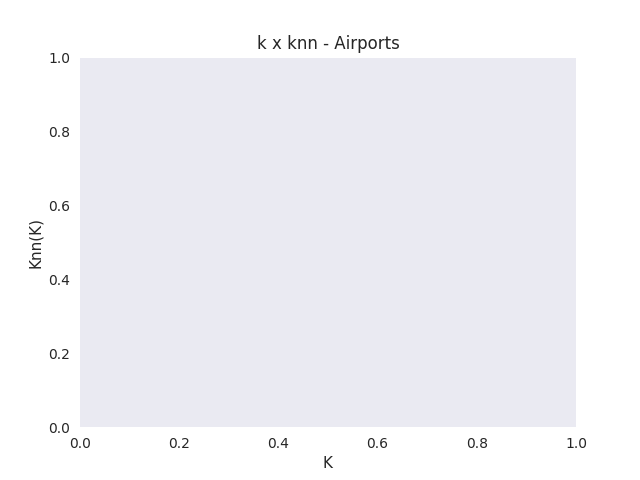
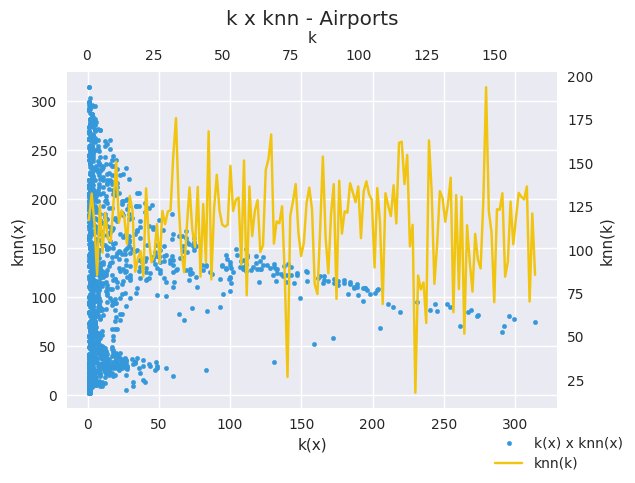
Update k x knn correlation, plot them accordingly

diff --git a/assignment2/assignment2.py b/assignment2/assignment2.py
@@ -74,31 +74,47 @@ def k_x_knn(graphs):
     for name, graph in graphs.items():
         print(name)
 
-        knn_degrees = nx.average_degree_connectivity(graph)
-        knn_vertex = nx.average_neighbor_degree(graph)
+        degrees = list(graph.degree().values())
+        knn_degrees = list((nx.average_degree_connectivity(graph)).values())
+        knn_vertex = list((nx.average_neighbor_degree(graph)).values())
+        k = range(1, len(knn_degrees) + 1)
 
-        knn_k = list(knn_degrees.values())
-        knn_v = list(knn_vertex.values())
+        # prepare plotting area
+        sns.set()
+        fig = pp.figure()
+        ax1 = fig.add_subplot(111, label="k(x) x knn(x)")
+        ax2 = fig.add_subplot(111, label="knn(k)", frame_on=False)
+
+        # knn(x) - scatter
+        plot1 = ax1.scatter(degrees, knn_vertex, s = 10, color=colors[i], marker='o', label="k(x) x knn(x)")
+        ax1.set_xlabel("k(x)")
+        ax1.set_ylabel("knn(x)")
+        ax1.tick_params(axis='x')
+        ax1.tick_params(axis='y')
+        # knn(k) - line
+        plot2, = ax2.plot(k, knn_degrees, c=colors[i+1], label="knn(k)")
+        ax2.xaxis.tick_top()
+        ax2.yaxis.tick_right()
+        ax2.set_xlabel("k")
+        ax2.set_ylabel("knn(k)")
+        ax2.xaxis.set_label_position('top') 
+        ax2.yaxis.set_label_position('right')   
+        ax2.tick_params(axis='x')
+        ax2.tick_params(axis='y')
 
         # plot
-        sns.set()
-        pp.title("k x knn - %s" % name)
-        pp.ylabel("Knn(K)")
-        pp.xlabel("K")
-       #  pp.scatter(x, y, c=colors[i], s = 100)
-
+        fig.tight_layout()
+        pp.figlegend((plot1, plot2), ('k(x) x knn(x)', 'knn(k)'), loc='lower right')
+        fig.subplots_adjust(top=0.85, bottom=0.15)
+        pp.suptitle("k x knn - %s" % name)
         pp.grid(False)
-        # pp.plot(list(knn_degrees.keys()), list(knn_degrees.values()), c=colors[i+1], label="knn(k)")
-        # pp.scatter(list(knn_degrees.keys()), list(knn_degrees.values()), c=colors[i], s = 100, label="k(x) vs knn(x)")
-      
         
-        pp.legend(loc='lower right')
-        pp.savefig('plots/' + name + "-kxknn.png")
+        pp.savefig('plots/' + name + "-kxknn.png",bbox_inches = 'tight')
         pp.clf()
         i += 1
 
-        # correlation
-        correlation = pearson(graph.degree().values(), knn_degrees.values())
+        # correlation k(x) x knn(x)
+        correlation = pearson(graph.degree().values(), knn_vertex)
         print("pearson correlation coefficient: %.4f" % correlation)
 
 
@@ -231,11 +247,11 @@ graphs["Cortical Monkey"] = read_graph("./networks/cortical-monkey.txt")
 # 1
 # assortativity(graphs)
 # 2
-# k_x_knn(graphs)
+k_x_knn(graphs)
 # 3, 6
 # modularities(graphs)
 # 5
-plot_modularity_evolution(graphs)
+# plot_modularity_evolution(graphs)
 # 7
 # communities()
 print("done")
